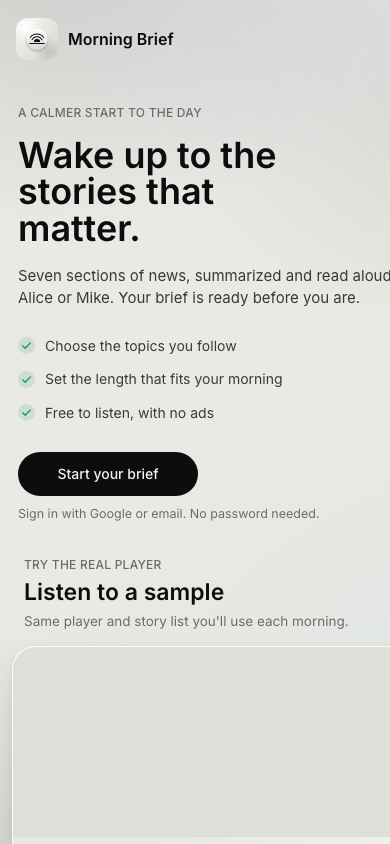
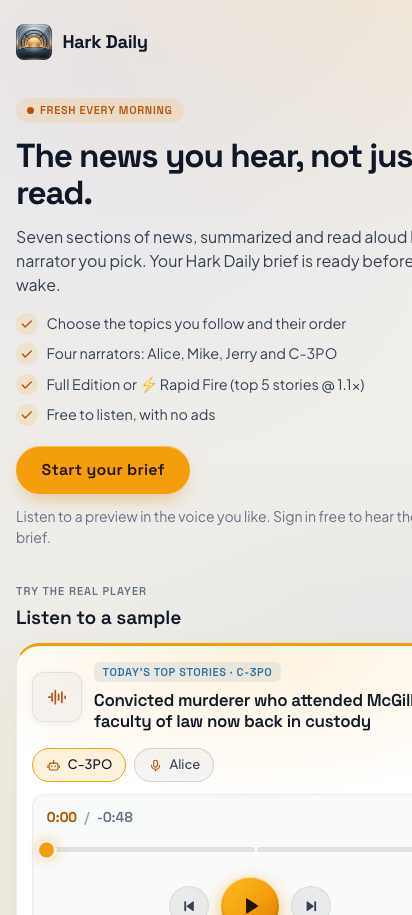
docs: update README, Privacy Policy, Terms of Use, and fresh UI screenshots

diff --git a/web/privacy.html b/web/privacy.html
@@ -43,37 +43,30 @@
   <main class="legal">
     <a class="legal-top" href="/"><img src="/icons/icon.svg" alt="" width="32" height="32"> Hark Daily</a>
     <h1>Privacy</h1>
-    <p class="updated">Last updated October 18, 2026</p>
-    <p>Hark Daily turns the news you choose into a short spoken briefing. It collects as little as it can to do that.
-      There are no ads, no analytics and no tracking, and nothing is sold or shared for marketing.</p>
+    <p class="updated">Last updated October 24, 2026</p>
+    <p>Hark Daily turns curated and custom news into a short, focused spoken briefing. It collects as little as it can to do that.
+      There are zero ads, zero tracking scripts, and zero analytics trackers. Nothing is ever sold, leased, or shared with marketers.</p>
 
     <h2>What's stored with your account</h2>
-    <p>You don't need an account to use the Android app. If you sign in (on the web, or in the app to sync), we store:</p>
+    <p>You don't need an account to use the Android app or listen to the daily showcase on the web. If you sign in (on the web, or in the app to sync), we store:</p>
     <ul>
-      <li><b>Your sign-in:</b> your email address, and your name and profile picture if you use Google.</li>
-      <li><b>Your settings:</b> the name you're greeted by, your weather city and its coordinates, voice, speed and how
-        many stories you want.</li>
-      <li><b>Your news links:</b> the sites, feeds and articles you add.</li>
-      <li><b>On the web only:</b> your briefings (the text and audio), and a notification address for each browser where
-        you turn on morning notifications.</li>
+      <li><b>Your sign-in:</b> your email address, and your name and profile picture if you use Google Sign-In.</li>
+      <li><b>Your settings:</b> the name you're greeted by, your weather city and its coordinates, your chosen narrator (e.g. C-3PO, Alice), briefing mode (Full or Rapid), and how many stories you want per topic.</li>
+      <li><b>Your news links:</b> any custom feeds, sections, or source priorities you configure.</li>
+      <li><b>On the web:</b> your daily briefing cache and web push notification subscriptions if you opt into morning alerts.</li>
     </ul>
-    <p>This is kept in <a href="https://supabase.com/privacy">Supabase</a>, and each account can only read its own data.</p>
+    <p>This is kept securely in <a href="https://supabase.com/privacy">Supabase</a>, and each account can only read and modify its own data.</p>
 
     <h2>What stays on your phone</h2>
-    <p>The Android app builds your briefing on the phone. Its briefings, audio, downloaded voices and any AI key you add
-      are kept on the device and never uploaded to us. Uninstalling the app removes them.</p>
+    <p>The Android app stores your preferences, downloaded offline briefings, on-device voice models, and any optional personal AI API keys directly on your device. They are never uploaded to our servers. Uninstalling the app completely removes them.</p>
 
     <h2>Who else sees what</h2>
     <ul>
-      <li><b>News sites</b> receive ordinary requests when your briefing fetches their headlines and articles.</li>
-      <li><b>Open-Meteo</b> receives your city's coordinates for the forecast and the place names you search for.</li>
-      <li><b>Groq</b> receives the news articles to summarize on the web. In the app, articles go to the AI service you
-        pick (Groq, Google Gemini, OpenRouter, OpenAI or your own) only if you add your own key. None of them receive your
-        account details.</li>
-      <li><b>Microsoft</b> receives the briefing text when a web briefing uses one of the Microsoft voices (Clara, Liam,
-        Ava, Andrew, Sonia). The Chatterbox-Turbo voices run privately on our own cloud voice service.</li>
-      <li><b>Google</b> handles the sign-in when you choose "Continue with Google".</li>
-      <li><b>GitHub</b> serves the app's natural-voice download.</li>
+      <li><b>News sources (CBC News, TechCrunch, BetaKit, and custom feeds)</b> receive ordinary HTTP GET requests when our pipeline reads public headlines and summary articles.</li>
+      <li><b>Open-Meteo</b> receives city coordinates to return temperature and forecast conditions. No personal identifiers are sent.</li>
+      <li><b>Summarization & Voice AI:</b> Daily news scripts are summarized via Groq or Google Gemini API. Spoken briefings are synthesized once globally on our private cloud voice server running Chatterbox-Turbo / Kokoro. Audio clips are saved to static storage and shared across all listeners. Individual listeners never have their identity or playback activity sent to voice models.</li>
+      <li><b>Google</b> handles authentication when you explicitly click "Continue with Google".</li>
+      <li><b>GitHub</b> hosts public release APKs and source code repositories.</li>
     </ul>
 
     <h2>Reporting a summary</h2>

diff --git a/web/terms.html b/web/terms.html
@@ -43,21 +43,17 @@
   <main class="legal">
     <a class="legal-top" href="/"><img src="/icons/icon.svg" alt="" width="32" height="32"> Hark Daily</a>
     <h1>Terms of use</h1>
-    <p class="updated">Last updated October 18, 2026</p>
-    <p>By using Hark Daily, on the web or in the Android app, you agree to these terms. If you don't agree, please don't
-      use it.</p>
+    <p class="updated">Last updated October 24, 2026</p>
+    <p>By using Hark Daily, on the web or in the Android app, you agree to these terms. If you don't agree, please don't use it.</p>
 
     <h2>The service</h2>
-    <p>Hark Daily is a free personal project that gathers headlines from news sources, summarizes them and reads them
-      aloud. It's provided as is, without warranties of any kind. It can change, pause or stop at any time.</p>
+    <p>Hark Daily is a free personal project that gathers headlines and reporting from respected publishers (such as CBC News, TechCrunch, and BetaKit), synthesizes them into short, digestible audio summaries, and plays them aloud. It is provided "as is", without warranties of any kind, and may change, pause, or update at any time.</p>
 
-    <h2>The news</h2>
+    <h2>The news & content attribution</h2>
     <ul>
-      <li>Headlines and articles belong to their publishers. Each story links to its source; read the original for the
-        full picture.</li>
-      <li>Summaries are written automatically, sometimes by AI, and can be wrong or leave things out. Don't rely on them for
-        decisions about your health, money, safety or the law.</li>
-      <li>Briefings are for your own personal listening. Don't republish or sell them.</li>
+      <li>Original headlines, reporting, and editorial content belong to their respective publishers (e.g. CBC/Radio-Canada, TechCrunch, BetaKit). Hark Daily provides clickable direct links to the original article on every card so listeners can read the full reporting in context.</li>
+      <li>Summaries and spoken scripts are synthesized automatically using artificial intelligence models. While designed for accuracy and brevity, automated summaries may omit nuance or contain errors. They should not be relied upon as advice for legal, financial, medical, or safety decisions.</li>
+      <li>Audio briefings are generated for personal, non-commercial listening. Do not re-broadcast, sell, or scrape the generated audio packs.</li>
     </ul>
 
     <h2>Your account</h2>

diff --git a/README.md b/README.md
@@ -5,16 +5,16 @@
 # ☀ Morning Brief
 
 **Your daily news, read aloud anytime.**  
-A 5-minute audio briefing from The Guardian's top stories, voiced by 4 neural personas: **C-3PO**, **Jerry**, **Alice**, and **Mike**.  
+A concise audio briefing from **CBC News**, **TechCrunch**, and **BetaKit**, voiced by neural personas led by **C-3PO** and **Alice**.  
 No ads. No tracking. Zero doom-scrolling.
 
 [![Web PWA](https://img.shields.io/badge/Web-PWA_Ready-2f6fed?style=flat-square&logo=googlechrome&logoColor=white)](web/)
-[![Android App](https://img.shields.io/badge/Android-APK_v0.1.35-1a9b5b?style=flat-square&logo=android&logoColor=white)](android/)
+[![Android App](https://img.shields.io/badge/Android-APK_v0.1.56-1a9b5b?style=flat-square&logo=android&logoColor=white)](https://github.com/vattitude-me/morning-brief-voice/releases/tag/android-v0.1.56)
 [![Neural Voice](https://img.shields.io/badge/Voice-Chatterbox--Turbo-6a4cf5?style=flat-square)](voice_service/)
-[![Changelog](https://img.shields.io/badge/Changelog-v0.1.35-orange?style=flat-square)](CHANGELOG.md)
-[![Privacy First](https://img.shields.io/badge/Privacy-No_Ads_%7C_No_Tracking-0D0D0D?style=flat-square)]()
+[![Changelog](https://img.shields.io/badge/Changelog-v0.1.57-orange?style=flat-square)](CHANGELOG.md)
+[![Privacy First](https://img.shields.io/badge/Privacy-No_Ads_%7C_No_Tracking-0D0D0D?style=flat-square)](web/privacy.html)
 
-[**Web PWA**](#-web-pwa) · [**Android App**](#-android-app) · [**Features**](#-features) · [**Changelog**](CHANGELOG.md) · [**Technical Guide**](docs/TECHNICAL.md)
+[**Web PWA**](#-web-pwa) · [**Android App**](#-android-app) · [**Features**](#-features) · [**Privacy**](web/privacy.html) · [**Terms**](web/terms.html) · [**Changelog**](CHANGELOG.md) · [**Technical Guide**](docs/TECHNICAL.md)
 
 </div>
 
@@ -22,40 +22,50 @@ No ads. No tracking. Zero doom-scrolling.
 
 ## ☕ Features
 
-* **4 Neural Narrators**: Switch between 4 distinct voice models with 1 tap:
-  * **C-3PO** — Polite British protocol droid.
-  * **Jerry** — Observational wit.
-  * **Alice** — Warm British newsreader.
-  * **Mike** — Crisp American morning news.
-* **Time-Adaptive Audio**: Adapts greetings (`Good morning`, `Good afternoon`, `Good evening`) to your local time.
-* **5-Minute Format**: 12–16 stories across 7 Guardian editorial sections (Top Stories, AI, Tech, Politics, Entertainment, Science, Sports), extracted and summarized for listening.
-* **Interactive Follow-Along**: Story cards highlight and auto-scroll as audio plays. Tap any story card to seek directly to it.
-* **Custom Category Ordering**: Drag and reorder topics to prioritize the sections you care about first.
-* **No Ads or Tracking**: No sponsored content, tracking pixels, or algorithmic feeds.
+* **Multi-Provider News Architecture**: Curated stories across 7 focused sections:
+  * **CBC News** — Canadian & world Top Stories, Politics, Entertainment, Science, and Sports.
+  * **TechCrunch** — Deep dive into Artificial Intelligence and machine intelligence.
+  * **BetaKit** — Canadian tech, startup ecosystems, and venture innovation.
+* **Neural Voice Personas**:
+  * **C-3PO** — Polite British protocol droid (flagship narrator).
+  * **Alice** — Warm British newsreader (alternate narrator).
+  * **Jerry** & **Mike** — Observational wit & crisp morning news.
+* **Dual Listening Modes**:
+  * **Full Briefing** — Immersive radio-style listening with spoken section intros and dynamic greetings.
+  * **Rapid Briefing** — Swift, continuous headline flow designed for listeners on the go.
+* **Time-Adaptive Audio**: Adapts greetings (`Good morning`, `Good afternoon`, `Good evening`) to your local timezone.
+* **Permanent Static Notes Architecture**: Greetings, section transitions, and sign-offs are voiced once and stored in a permanent static repository (`notes/static/`), verified before GPU shutdown to ensure $0 recurring compute costs.
+* **Interactive Follow-Along**: Story cards highlight and auto-scroll in sync with the audio. Tap any story card to seek directly to it.
+* **Pull-Down-to-Refresh**: Native Android gesture on `TodayScreen` to instantly re-check for the latest stories and audio updates.
+* **Custom Topic Ordering**: Drag and reorder topics to prioritize the sections you care about first.
+* **Cost-Efficient Cloud Infrastructure**: Fully automated Google Cloud Run orchestration that starts on-demand GCE L4 GPU VMs for batch synthesis and terminates them immediately to prevent idle cloud billing.
+* **Strict Privacy by Design**: No sponsored stories, no advertising networks, no tracking pixels, and no algorithmic rabbit holes.
 
 ---
 
 ## 🖥 Web PWA
 
-Works in any modern browser on desktop, tablet, and mobile with light and dark themes.
+Works in any modern browser on desktop, tablet, and mobile with automatic light and dark themes.
 
 <div align="center">
 
-### Light Mode
-<img src="docs/screenshots/web-desktop-light.png" alt="Morning Brief Web Desktop Light Mode" width="100%" style="border-radius: 12px; box-shadow: 0 10px 30px rgba(0,0,0,0.1);" />
+### Desktop View (Light & Dark)
+<img src="docs/screenshots/web-desktop-light.png" alt="Morning Brief Web Desktop Light Mode" width="100%" style="border-radius: 12px; box-shadow: 0 10px 30px rgba(0,0,0,0.1); margin-bottom: 16px;" />
 
-### Dark Mode
 <img src="docs/screenshots/web-desktop-dark.png" alt="Morning Brief Web Desktop Dark Mode" width="100%" style="border-radius: 12px; box-shadow: 0 10px 30px rgba(0,0,0,0.1);" />
+
+### Mobile Web PWA
+<img src="docs/screenshots/web-mobile-light.png" alt="Morning Brief Web Mobile View" width="360" style="border-radius: 12px; box-shadow: 0 10px 30px rgba(0,0,0,0.1); margin-top: 12px;" />
 
 </div>
 
-Install as a Progressive Web App (PWA) on Chrome, Edge, or Safari for offline caching and web push notifications.
+Install as a Progressive Web App (PWA) on Chrome, Edge, or Safari for offline caching, background playback, and web push notifications.
 
 ---
 
 ## 📱 Android App
 
-Native Android app with Jetpack Compose, Media3 background audio, and lock-screen controls.
+Native Android application built with Jetpack Compose, Compose Material3 tokens, and Media3 background audio.
 
 <div align="center">
 
@@ -65,9 +75,10 @@ Native Android app with Jetpack Compose, Media3 background audio, and lock-scree
 
 </div>
 
-- **Background Audio**: Android Media3 notification and lock-screen playback controls.
-- **Narrator Switcher**: Instant switching between C-3PO, Jerry, Alice, and Mike.
-- **Custom Category Sorting**: Reorder news categories to listen in your preferred sequence.
+- **Pull-Down-to-Refresh**: Smooth native pull gesture to refresh stories and audio packs on demand.
+- **Background Playback**: Android Media3 notification and lock-screen playback controls with scrubber.
+- **Narrator Switcher**: Instant switching between C-3PO and Alice without losing playback position.
+- **Custom Category Sorting**: Prioritize and toggle categories according to your morning routine.
 - **Device & Cloud Playback**: Stream cloud-voiced editions or run on-device audio offline.
 
 ---
@@ -75,14 +86,14 @@ Native Android app with Jetpack Compose, Media3 background audio, and lock-scree
 ## 🚀 Getting Started
 
 ### Web
-1. Open the [Morning Brief web app](web/).
-2. Click **Play** on today’s edition—no account required.
-3. Sign in with Google or magic link to sync preferences across devices.
+1. Open the [Morning Brief Web App](web/).
+2. Click **Play** on today’s edition—no account or sign-up required.
+3. Sign in with Google or magic link if you wish to sync custom topic preferences across devices.
 
 ### Android
-1. Download the APK from [GitHub Releases](https://github.com/vattitude-me/morning-brief-voice/releases).
-2. Install on Android 10+.
-3. Pick your preferred narrator and topic order.
+1. Download the latest signed APK from [GitHub Releases](https://github.com/vattitude-me/morning-brief-voice/releases).
+2. Install on any device running Android 10+ (API 29+).
+3. Select your preferred voice narrator (**C-3PO** or **Alice**) and start listening.
 
 ---
 
@@ -91,6 +102,8 @@ Native Android app with Jetpack Compose, Media3 background audio, and lock-scree
 - [**Technical & Architecture Guide (`docs/TECHNICAL.md`)**](docs/TECHNICAL.md) — Architecture diagrams, Supabase schema, Cloud Run jobs, and GCE GPU automation.
 - [**Android App Guide (`android/README.md`)**](android/README.md) — Gradle build steps, Compose architecture, and release signing.
 - [**Voice Service Guide (`voice_service/README.md`)**](voice_service/README.md) — Chatterbox-Turbo TTS service, FastAPI endpoints, GPU acceleration, and voice reference clips.
+- [**Privacy Policy (`web/privacy.html`)**](web/privacy.html) — Clear statement on data minimization and privacy.
+- [**Terms of Use (`web/terms.html`)**](web/terms.html) — Fair dealing and source attribution terms.
 - [**Changelog (`CHANGELOG.md`)**](CHANGELOG.md) — Version history and release notes.
 
 ---

diff --git a/CHANGELOG.md b/CHANGELOG.md
@@ -16,6 +16,10 @@ and this project adheres to [Semantic Versioning](https://semver.org/spec/v2.0.0
   - Subsequent runs reuse existing static notes instantly with 0 GPU synthesis time and zero storage audio duplication.
   - Hardened `prune_older()` to protect `STATIC_DATE` rows and guarantee audio files under `notes/static/` are permanent and never deleted.
   - Backfilled and verified all 44 static notes across C-3PO, Alice, Mike, and Jerry in Supabase storage and database.
+- **Documentation & Legal Updates**:
+  - Completely updated `README.md` to showcase the new multi-provider architecture (CBC News, TechCrunch, BetaKit), flagship voice lineup (C-3PO & Alice), Android pull-down-to-refresh, and dual listening modes (Full & Rapid).
+  - Refreshed high-resolution desktop and mobile UI screenshots in `docs/screenshots/`.
+  - Updated `web/privacy.html` and `web/terms.html` to reflect modern multi-provider news sourcing, shared cloud audio privacy guarantees, and publisher attribution.
 
 ---
 
